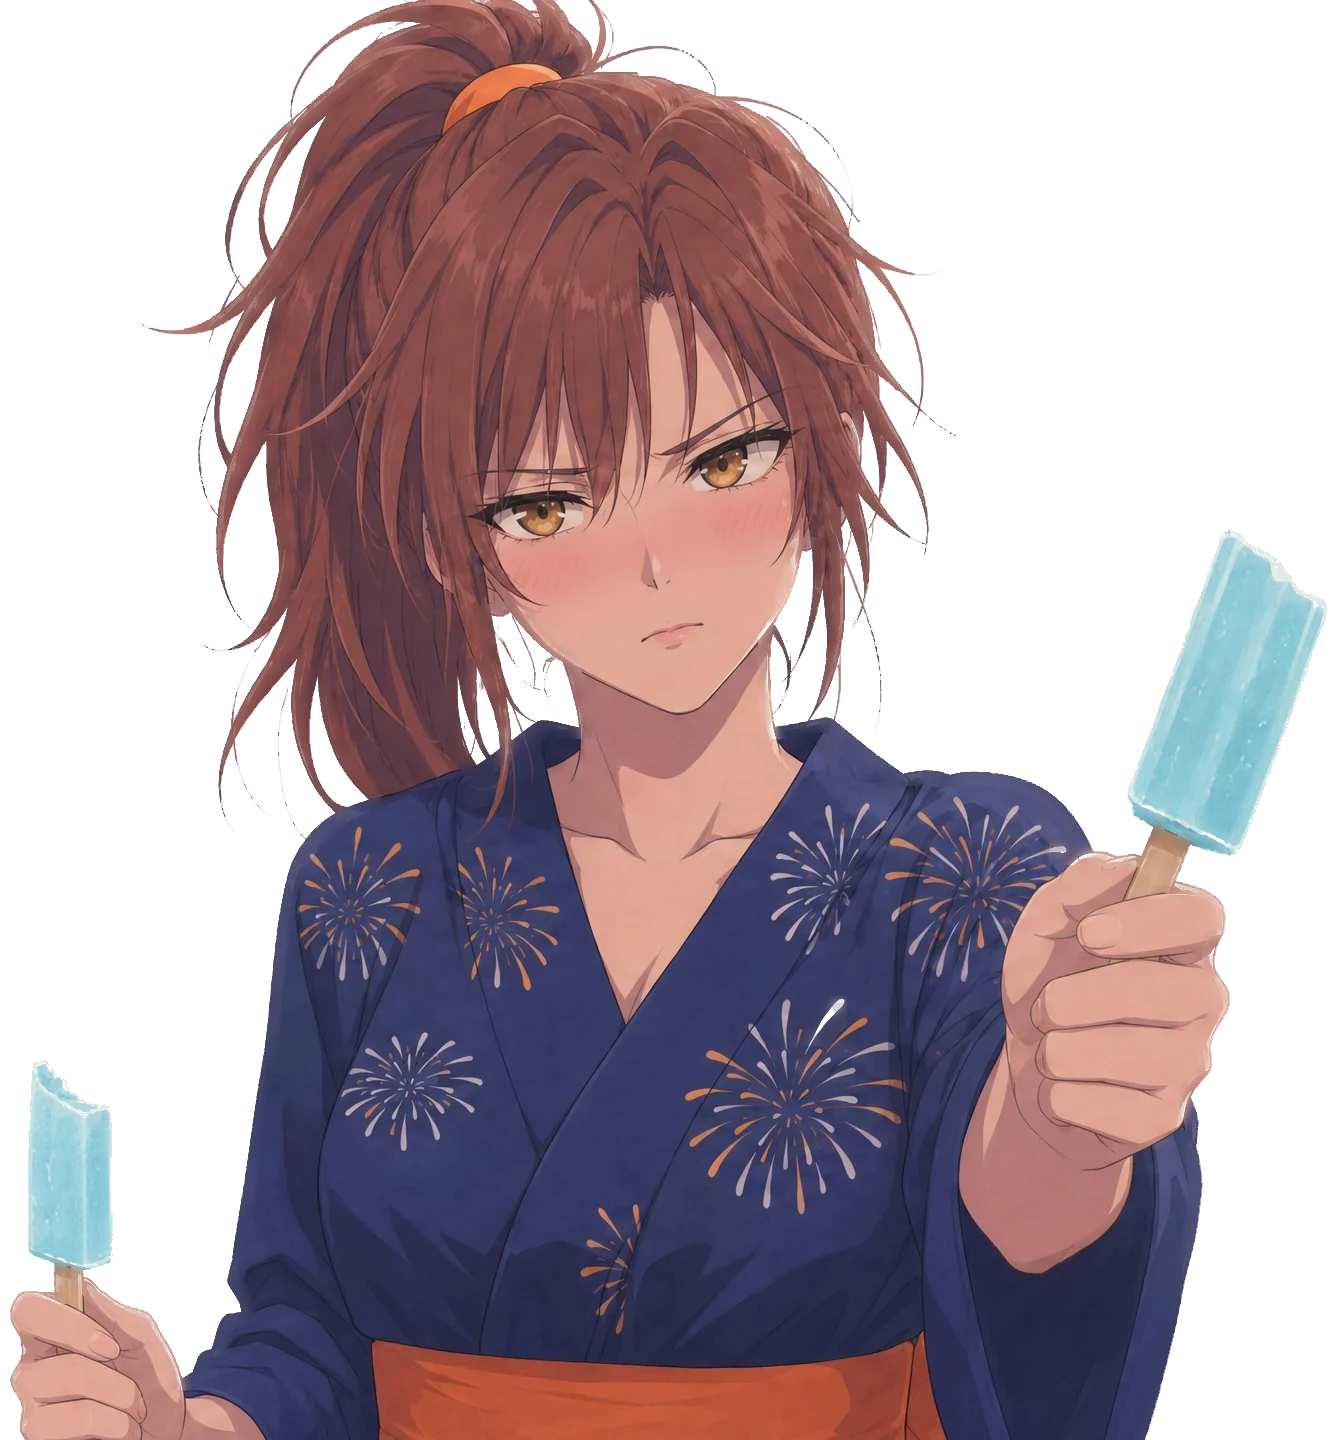
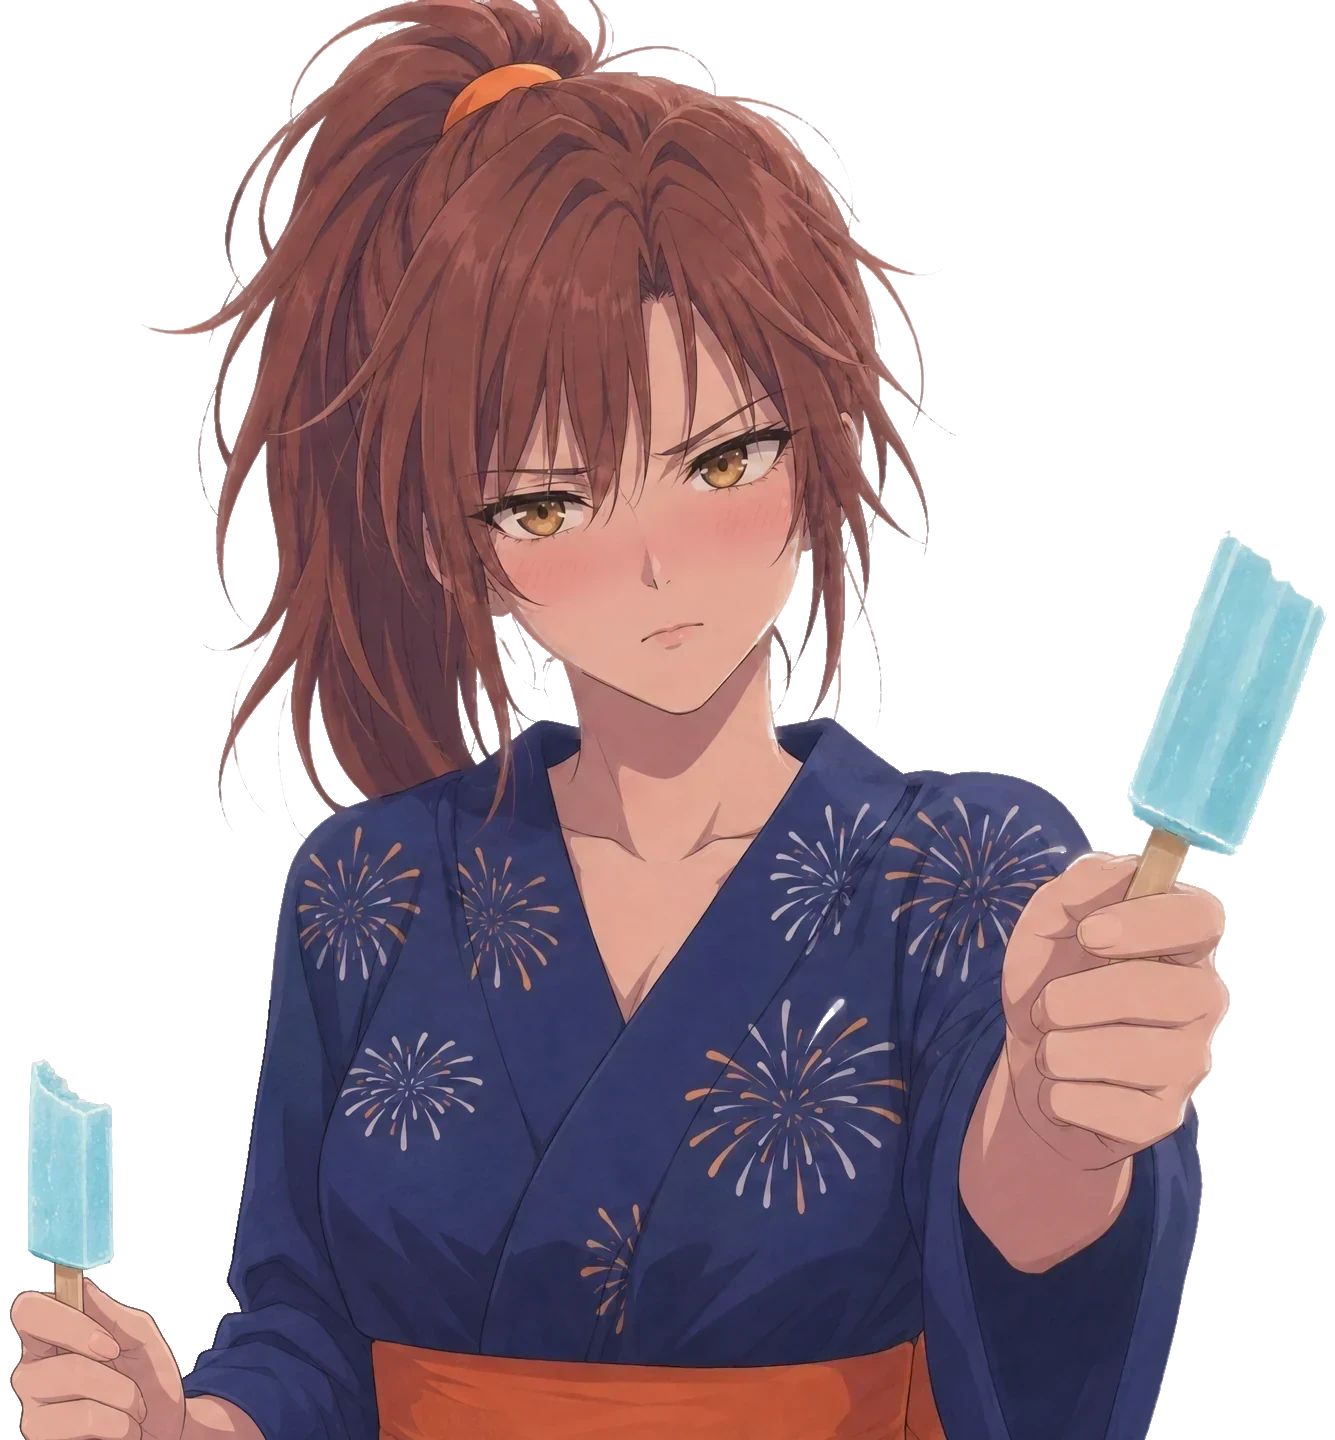
Demo31 Nagisa: (1) popsicle view — the light grey outline around the ice pop, her hand and the sleeve removed: difference key against the grey studio backdrop on the source, colour unmixed, weak / lighter edge pixels take the figure colour next to them (2x on navy: clean); flat fallback re-cleaned (

diff --git a/demos/for-men/Demo31_SummerRooftop/media/layers.js b/demos/for-men/Demo31_SummerRooftop/media/layers.js
@@ -93,7 +93,7 @@ window.MOHEAT_LAYERS = {
     ]
    },
    "char": {
-    "src": "art/char_popsicle.webp?v=c9ed89a4",
+    "src": "art/char_popsicle.webp?v=f5ca3301",
     "w": 1335,
     "h": 1440,
     "x": 0.56,
@@ -629,6 +629,16 @@ window.MOHEAT_LAYERS = {
      ],
      "kind": "mouth_lv",
      "level": 3
+    },
+    {
+     "src": "art/laugh_eyes.webp?v=631b5d6f",
+     "rect": [
+      384,
+      385,
+      374,
+      176
+     ],
+     "kind": "eyes"
     }
    ]
   }
